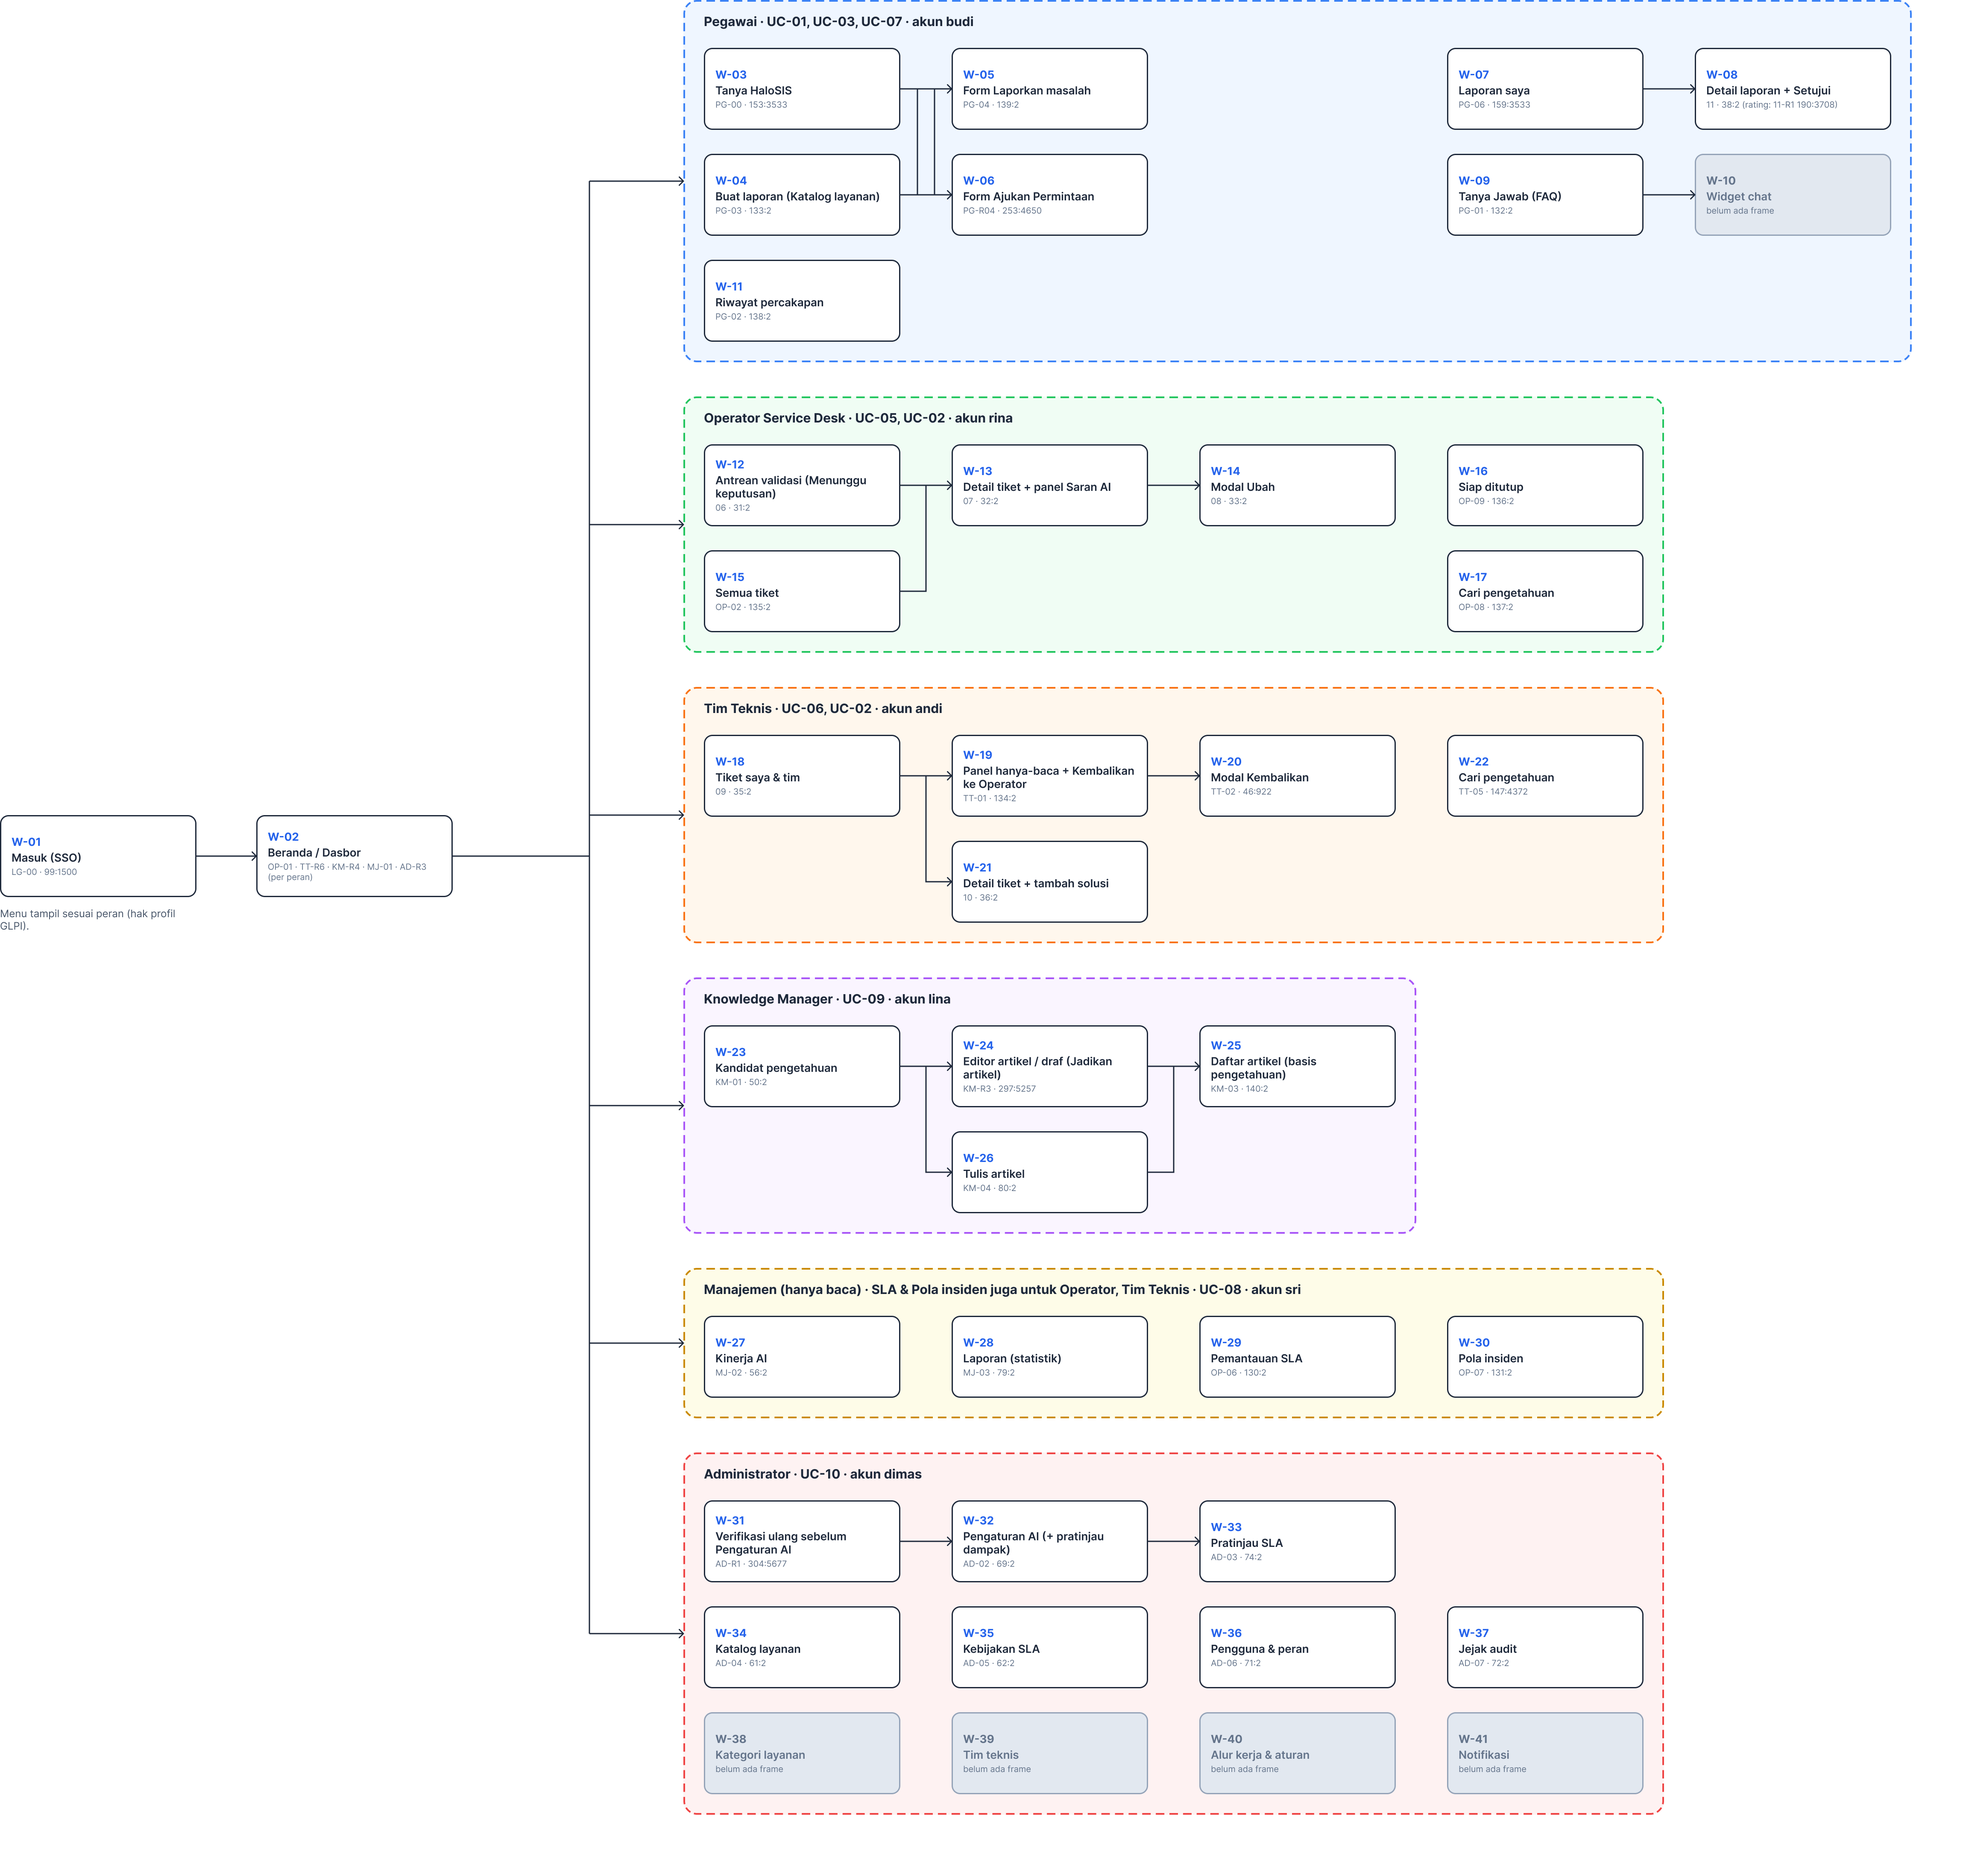
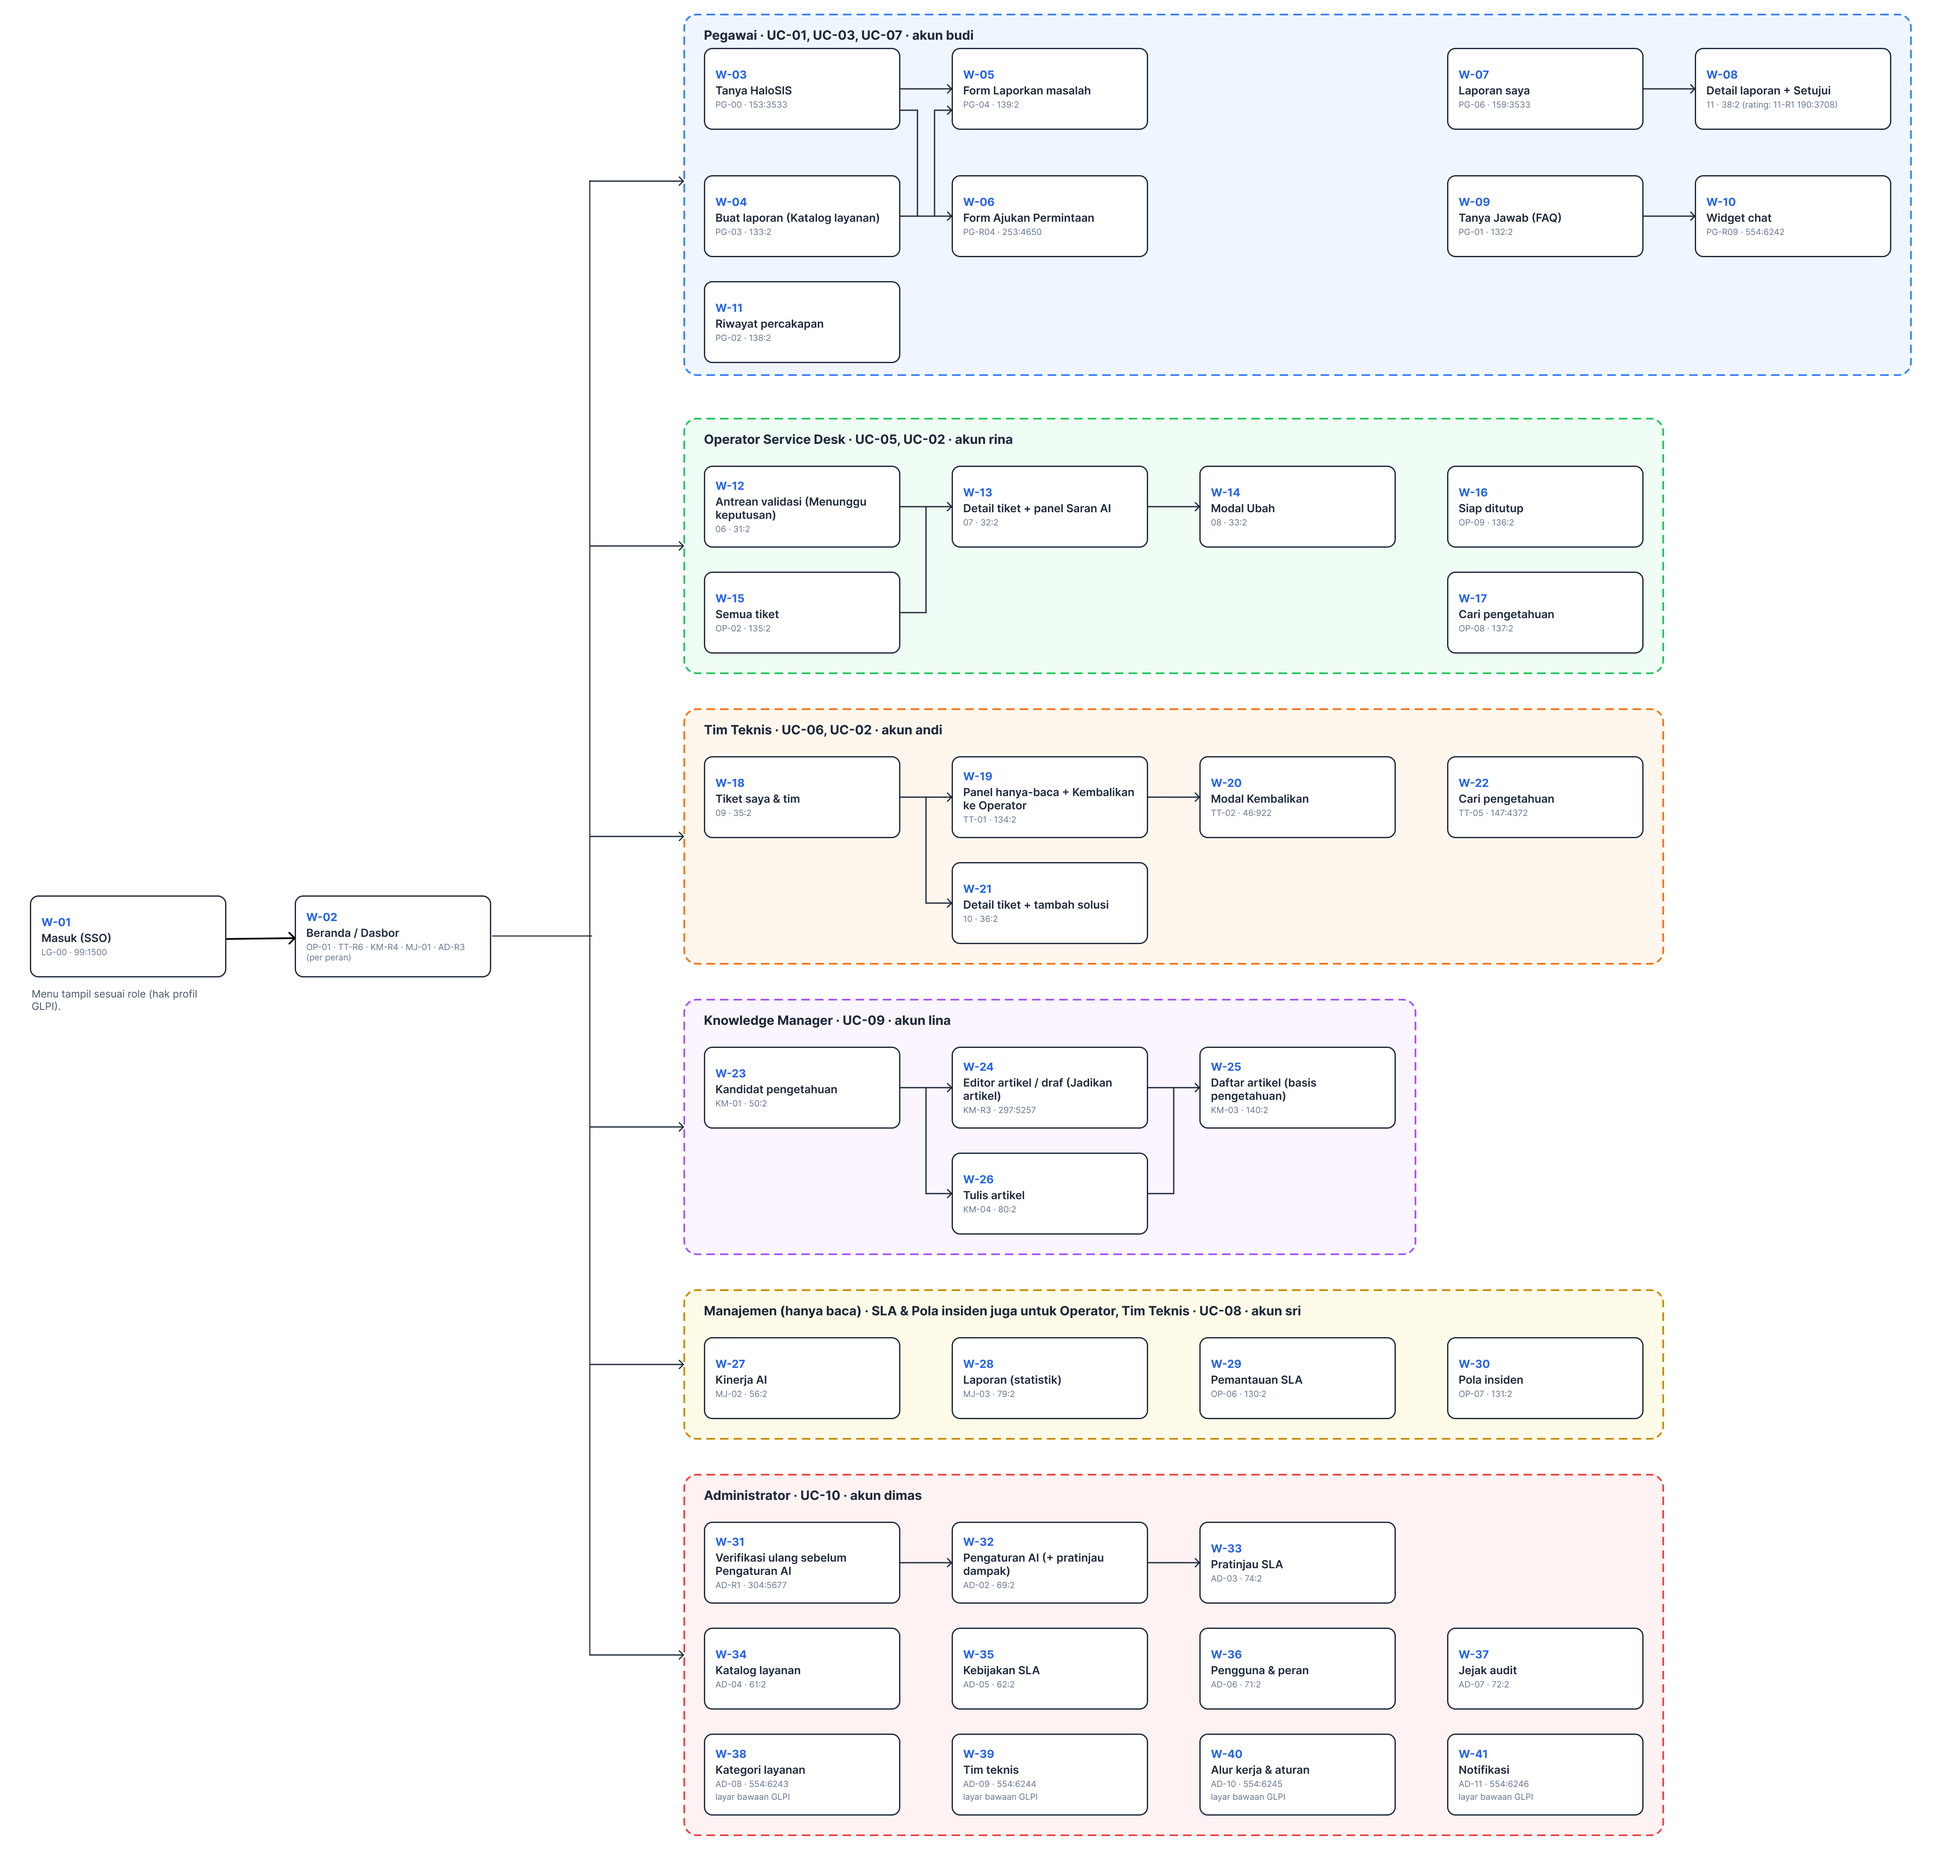
Peta navigasi: lengkapi 5 layar

diff --git a/reports/peta_navigasi.md b/reports/peta_navigasi.md
@@ -1,6 +1,6 @@
 # Peta navigasi jendela (W-xx)
 
-Figma: halaman "Peta Navigasi" (frame "Peta Navigasi"); PNG: `reports/peta_navigasi.png` (skala 2). Layar diambil dari frame yang sudah ada di halaman "Prototype HaloSIS"; kotak abu = belum ada frame. Menu tiap peran mengikuti sidebar/navbar di Figma dan `reports/panduan_peran.md`. Menu tampil sesuai peran (hak profil GLPI).
+Figma: halaman "Peta Navigasi" (frame "Peta Navigasi"); PNG: `reports/peta_navigasi.png` (skala 2). Layar diambil dari frame yang sudah ada di halaman "Prototype HaloSIS"; semua kotak kini punya frame (lima frame baru dari screenshot aplikasi di `reports/shots/`). W-38–W-41 diberi label "layar bawaan GLPI". Menu tiap peran mengikuti sidebar/navbar di Figma dan `reports/panduan_peran.md`. Menu tampil sesuai peran (hak profil GLPI).
 
 Catatan: menu Operator dan Tim Teknis tidak memuat Kinerja AI maupun Laporan (statistik); keduanya hanya untuk Manajemen (Kinerja AI juga Administrator). Operator dan Tim Teknis berbagi Pemantauan SLA dan Pola insiden. Menu Administrator lain (Kandidat pengetahuan, Kinerja AI) memakai W-23 dan W-27.
 
@@ -15,7 +15,7 @@ Catatan: menu Operator dan Tim Teknis tidak memuat Kinerja AI maupun Laporan (st
 | W-07 | Laporan saya | Pegawai | UC-07 | PG-06 159:3533 |
 | W-08 | Detail laporan + Setujui (konfirmasi & rating) | Pegawai | UC-07 | 11 Detail laporan + Setujui (budi) 38:2; rating: 11-R1 190:3708 |
 | W-09 | Tanya Jawab (FAQ) | Pegawai | UC-01 | PG-01 Pusat bantuan (FAQ) 132:2 |
-| W-10 | Widget chat | Pegawai | UC-01 | belum ada frame |
+| W-10 | Widget chat | Pegawai | UC-01 | PG-R09 Widget chat (FAQ) 554:6242 · screenshot `reports/shots/widget_chat.png` |
 | W-11 | Riwayat percakapan | Pegawai | UC-01 | PG-02 138:2 |
 | W-12 | Antrean validasi (Menunggu keputusan) | Operator | UC-05 | 06 Antrean validasi (rina) 31:2 |
 | W-13 | Detail tiket + panel Saran AI | Operator | UC-05 | 07 32:2 |
@@ -43,7 +43,7 @@ Catatan: menu Operator dan Tim Teknis tidak memuat Kinerja AI maupun Laporan (st
 | W-35 | Kebijakan SLA | Administrator | UC-10 | AD-05 62:2 |
 | W-36 | Pengguna & peran | Administrator | UC-10 | AD-06 71:2 |
 | W-37 | Jejak audit | Administrator | UC-10 | AD-07 72:2 |
-| W-38 | Kategori layanan | Administrator | UC-10 | belum ada frame |
-| W-39 | Tim teknis | Administrator | UC-10 | belum ada frame |
-| W-40 | Alur kerja & aturan | Administrator | UC-10 | belum ada frame |
-| W-41 | Notifikasi | Administrator | UC-10 | belum ada frame |
+| W-38 | Kategori layanan | Administrator | UC-10 | AD-08 Kategori layanan 554:6243 (layar bawaan GLPI; screenshot `reports/shots/kategori_layanan.png`) |
+| W-39 | Tim teknis | Administrator | UC-10 | AD-09 Tim teknis 554:6244 (layar bawaan GLPI; screenshot `reports/shots/tim_teknis.png`) |
+| W-40 | Alur kerja & aturan | Administrator | UC-10 | AD-10 Alur kerja & aturan 554:6245 (layar bawaan GLPI; screenshot `reports/shots/alur_kerja.png`) |
+| W-41 | Notifikasi | Administrator | UC-10 | AD-11 Notifikasi 554:6246 (layar bawaan GLPI; screenshot `reports/shots/notifikasi.png`) |
